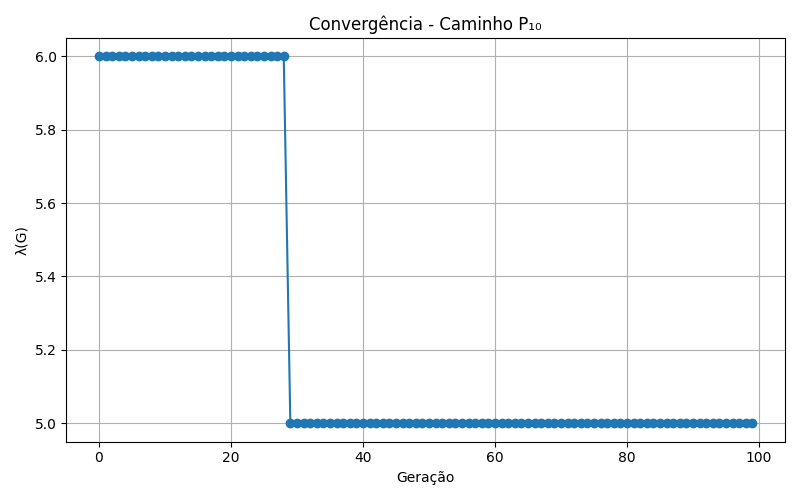
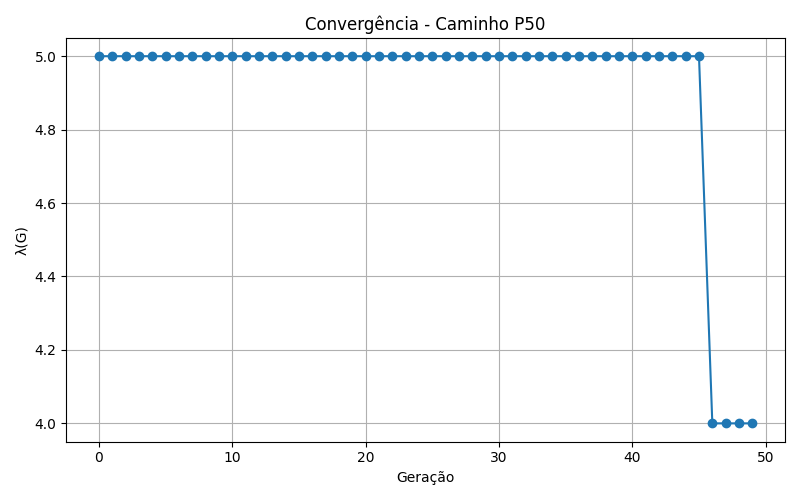
Grafo atualizado

diff --git a/experiments/run_experiments.py b/experiments/run_experiments.py
@@ -11,10 +11,10 @@ import time
 
 def generate_default_graph(path):
     """
-    Gera um grafo caminho (P10) e salva no formato GraphML.
+    Gera um grafo caminho (P50) e salva no formato GraphML.
     """
     print("⚠  Arquivo de grafo está vazio ou ausente. Gerando P₁₀ como fallback...")
-    G = nx.path_graph(150)
+    G = nx.path_graph(50)
     os.makedirs(os.path.dirname(path), exist_ok=True)
     nx.write_graphml(G, path)
 
@@ -44,9 +44,9 @@ def main():
     print(f"Número de vértices: {graph.number_of_nodes()}")
 
     # Parâmetros do algoritmo
-    population_size = 50
-    generations = 100
-    mutation_rate = 0.05
+    population_size = 500
+    generations = 50
+    mutation_rate = 0.7
 
     print("\nExecutando AGBO...")
     start = time.time()
@@ -66,7 +66,7 @@ def main():
     print(f"Melhor solução encontrada: {labeling}")
     print(f"Tempo de execução: {duration:.2f} segundos")
 
-    plot_convergence(convergence, title="Convergência - Caminho P₁₀₀", save_path="results/convergencia.png")
+    plot_convergence(convergence, title="Convergência - Caminho P50", save_path="results/convergencia.png")
 
     # Salvar resultado em arquivo
     os.makedirs("results", exist_ok=True)
